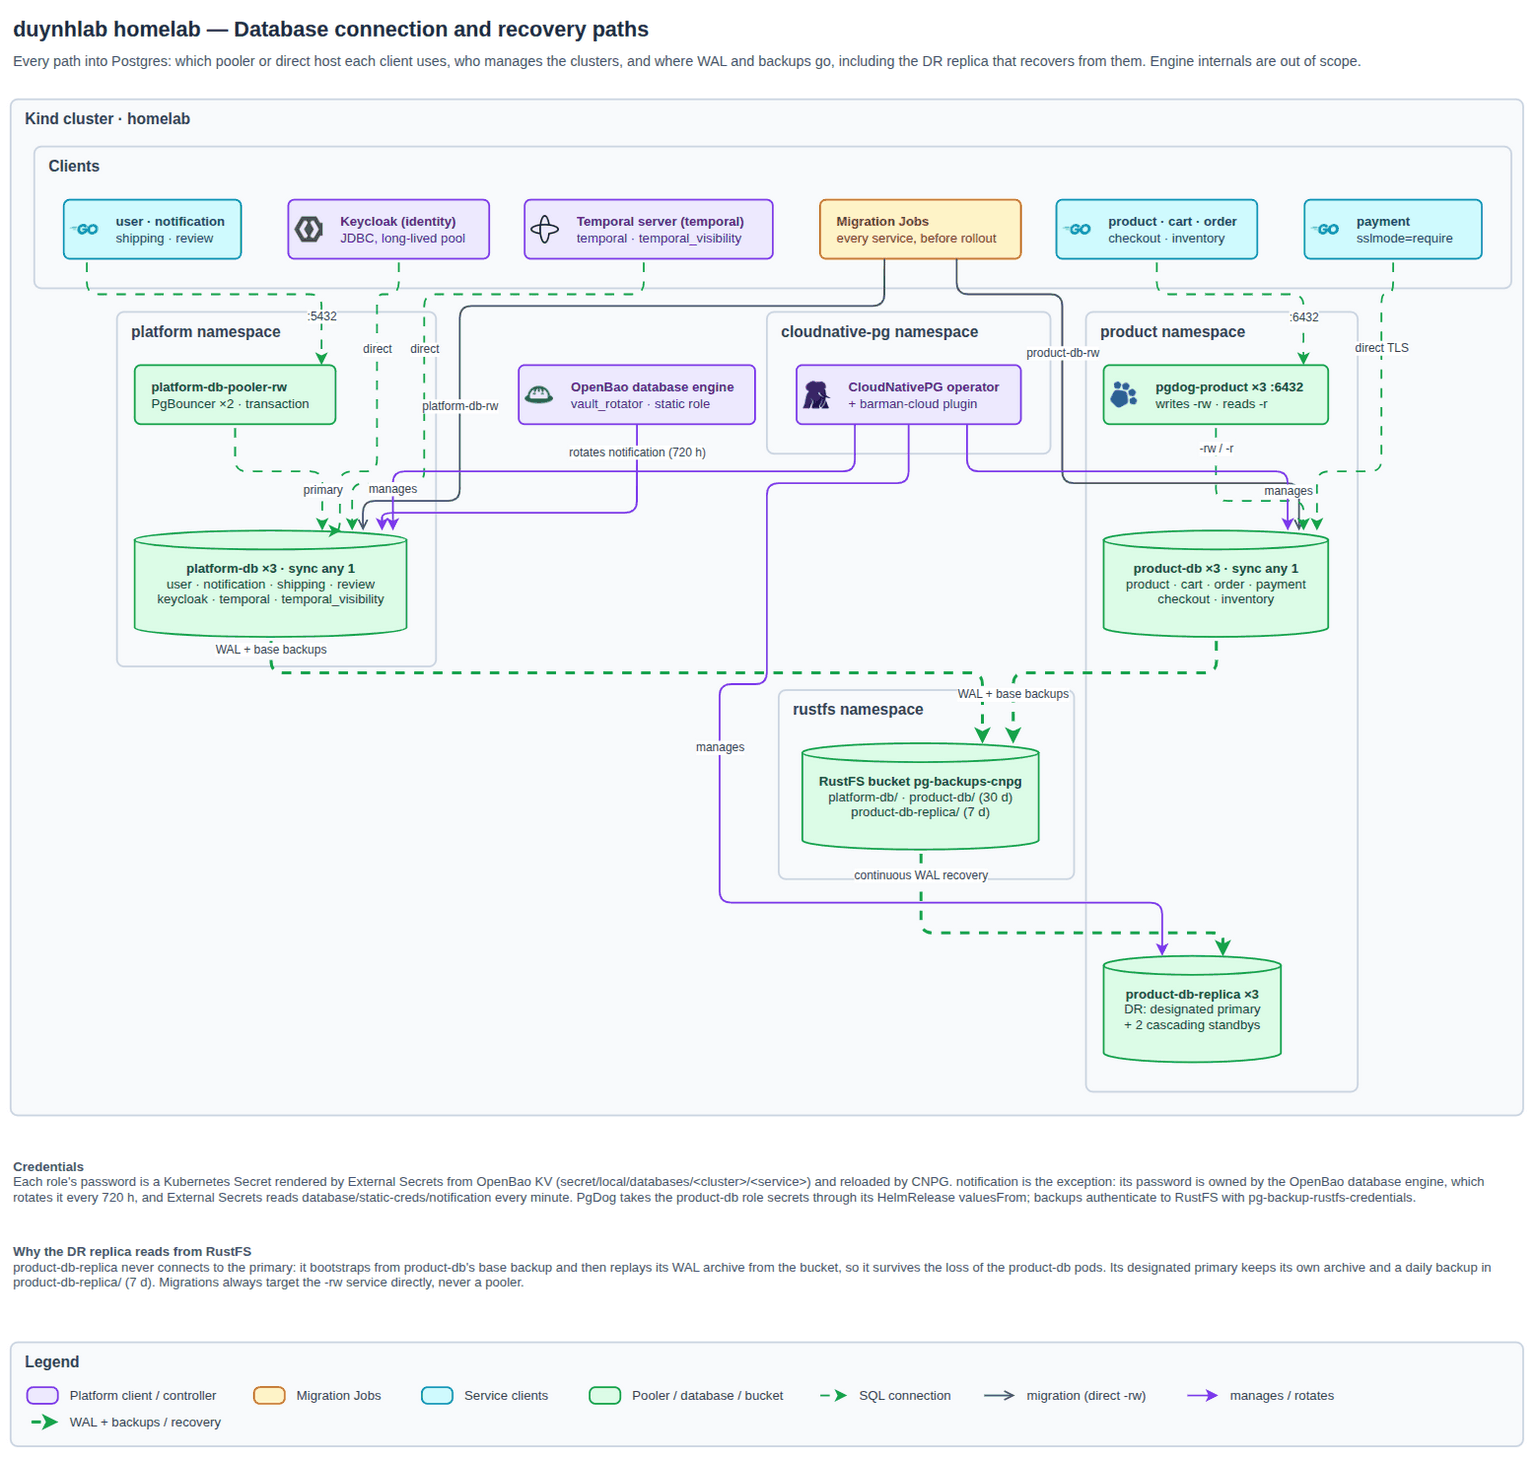
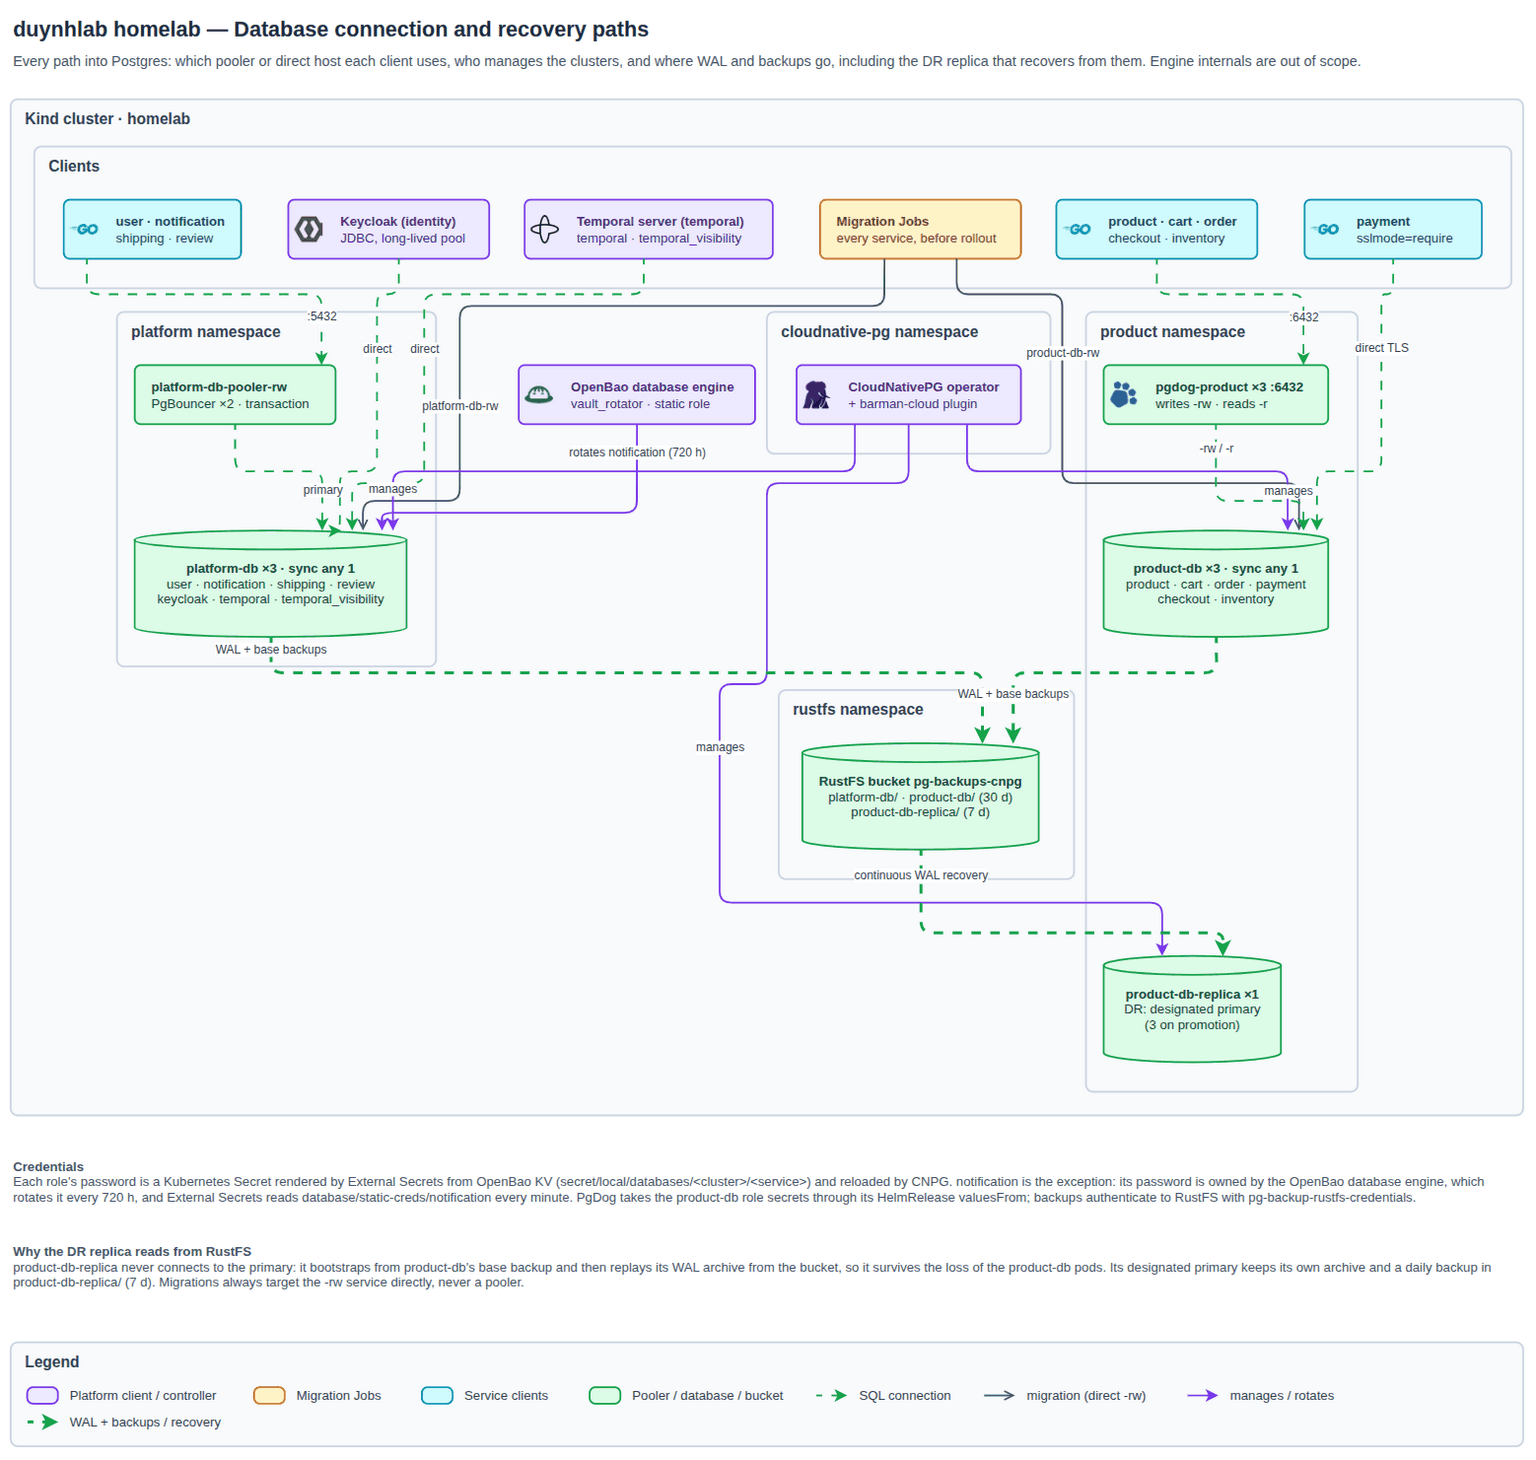
perf(databases): run the DR replica cluster on one instance
Each of product-db-replica's three standbys ran restore_command against
RustFS every few seconds, and every attempt forks the CNPG manager plus
a Python barman-cloud-wal-restore. On the Kind host the spare cost more
CPU than the serving cluster (single wal-restore bursts near 1100%).

One designated primary keeps the recovery layer and the promotion
target, and keeps CNPGDRClusterOffline quiet. Accepted trade-off: a
promoted cluster would be a single point of failure, so the promotion
step in the bootstrap runbook now raises instances back to 3. Docs,
runbooks and the databases/topology Draw.io view follow.

Verified on Kind: 1/1 ready, in recovery, replay lag within the 5m
archive_timeout, CNPG removed the two extra PVCs, 30/30 Kustomizations
Ready.

Changed region(s): [[0.75, 0.6781, 0.8125, 0.7089], [0.5938, 0.6164, 0.625, 0.6473]]

diff --git a/docs/databases/reliability-targets.md b/docs/databases/reliability-targets.md
@@ -40,7 +40,7 @@ the target table above is the DR backlog.
 | Cluster | RPO driver (as-built) | Effective RPO | RTO posture | Evidence |
 |---------|----------------------|---------------|-------------|----------|
 | `product-db` | 3 instances, sync quorum `ANY 1`; `archive_timeout 5m`; daily + every-6h base backups → `s3://pg-backups-cnpg/product-db/` (30-day retention) | **0** on quorum-ack commits (**measured 0**); **≤ 5 min** to DR replica | Planned switchover **measured 11.4 s** RTO; **PITR measured 2 m 12 s** to a validated throwaway; DR promotion still **not drill-recorded** | ✅ [DR-2026-08-B](../proposals/rfc/RFC-0021/gameday.md#0102-evidence-record) (switchover, 2026-08-06) · ✅ [DR-2026-08-A](./runbooks/restore-and-failover-drills.md#dr-2026-08-a--drill-a-product-db-pitr-the-barman-acceptance-gate) (PITR, 2026-08-07); ⏳ promotion pending durable hardware |
-| `product-db-replica` | Follows `product-db` via object-store recovery; 3 instances; own daily base backup into a 7-day recovery window | Tracks primary minus replay lag | Promote via `replica.enabled: false` | ⏳ promotion drill deferred to durable hardware ([RFC-0011](../proposals/rfc/RFC-0011/)) — on an ephemeral Kind cluster the rehearsal cannot honour the runbook's "never promote the live DR target" rule except by disposability |
+| `product-db-replica` | Follows `product-db` via object-store recovery; 1 instance (raised to 3 on promotion); own daily base backup into a 7-day recovery window | Tracks primary minus replay lag | Promote via `replica.enabled: false` | ⏳ promotion drill deferred to durable hardware ([RFC-0011](../proposals/rfc/RFC-0011/)) — on an ephemeral Kind cluster the rehearsal cannot honour the runbook's "never promote the live DR target" rule except by disposability |
 | `platform-db` | 3 instances, sync quorum `ANY 1`; Barman → `s3://pg-backups-cnpg/platform-db/` (30-day retention); includes `temporal` + `temporal_visibility` | **0** on quorum-ack commits | CNPG auto-failover; restore is manual | ⏳ restore drill deferred to durable hardware ([RFC-0011](../proposals/rfc/RFC-0011/)); the mechanism itself is proven by [DR-2026-08-A](./runbooks/restore-and-failover-drills.md#dr-2026-08-a--drill-a-product-db-pitr-the-barman-acceptance-gate) on the identical CNPG + Barman plugin path |
 
 ## How targets map to backup cadence
@@ -88,4 +88,4 @@ These widen the gap between target and as-built; tracked in
 - [runbooks/restore-and-failover-drills.md](./runbooks/restore-and-failover-drills.md) — how the targets get verified.
 
 ---
-_Last updated: 2026-09-01 — DR cluster taken to 3 instances with its own daily base backup._
+_Last updated: 2026-09-29 — DR cluster down to 1 instance, raised to 3 on promotion. Earlier: 2026-09-01 — DR cluster taken to 3 instances with its own daily base backup._

diff --git a/docs/databases/runbooks/cnpg-dr-replica-bootstrap.md b/docs/databases/runbooks/cnpg-dr-replica-bootstrap.md
@@ -61,8 +61,8 @@ Expected:
 
 - `product-db` has a recent completed backup.
 - `product-db` reports `ContinuousArchiving=True`.
-- `product-db-replica` reaches healthy state with three ready pods (designated
-  primary plus two cascading standbys).
+- `product-db-replica` reaches healthy state with one ready pod (the designated
+  primary; the cluster runs a single instance since 2026-09-29).
 
 ## Common Failure Points
 
@@ -146,9 +146,8 @@ Record the change/incident ID and obtain database-owner approval first.
    flux get kustomization databases-cnpg-dr-local -n flux-system
    ```
 
-   Confirm the designated primary is still in recovery, the two cascading
-   replicas are healthy, the replay timestamp advances, and the new daily backup
-   can write under the rotated identity.
+   Confirm the designated primary is still in recovery, the replay timestamp
+   advances, and the new daily backup can write under the rotated identity.
 
 The old generation becomes an intentional orphan. Inventory and remove it only
 through a separate object-store cleanup change after its recovery window and
@@ -168,6 +167,12 @@ Promotion semantics: the replica **cluster** transitions via
 into a replica requires destroying the cluster and re-bootstrapping (re-cloning)
 from the then-current primary.
 
+**Raise `instances` to 3 in the same promotion change.** The DR cluster runs a
+single instance to keep the spare cheap (2026-09-29), so a promoted cluster
+would otherwise be a single point of failure with no quorum. CNPG adds the two
+standbys by streaming from the new primary; they do not need the object store.
+
 ---
-_Last updated: 2026-09-14 — documented the owner-approved Barman `serverName`
+_Last updated: 2026-09-29 — the DR cluster runs one instance; promotion raises
+it back to 3. 2026-09-14 — documented the owner-approved Barman `serverName`
 rotation required before a DR re-clone and corrected the stale WAL-only claim._

diff --git a/docs/observability/runbooks/postgresql/CNPGDRClusterOffline.md b/docs/observability/runbooks/postgresql/CNPGDRClusterOffline.md
@@ -82,10 +82,10 @@ kubectl -n product get pods -l cnpg.io/cluster=product-db-replica
 flux get kustomization databases-cnpg-dr-local -n flux-system
 ```
 
-- The CNPG Cluster is healthy with 3/3 instances.
-- One designated primary remains in recovery from `product-db-primary`; two
-  cascading instances are healthy.
-- `cnpg_collector_up{cnpg_io_cluster="product-db-replica"}` has three series.
+- The CNPG Cluster is healthy with 1/1 instances (a single designated primary
+  since 2026-09-29).
+- The designated primary remains in recovery from `product-db-primary`.
+- `cnpg_collector_up{cnpg_io_cluster="product-db-replica"}` has one series.
 - `databases-cnpg-dr-local` is `Ready=True`.
 - The alert is inactive after the five-minute window clears.
 
@@ -104,5 +104,5 @@ restored; application health alone does not close it.
 
 ---
 
-_Last updated: 2026-09-14 — added explicit coverage for complete DR-cluster
+_Last updated: 2026-09-29 — expected state is 1/1 instance (DR cluster down from 3). Earlier: 2026-09-14 — added explicit coverage for complete DR-cluster
 absence and separated it from standby-streaming failures._

diff --git a/kubernetes/infra/configs/databases/README.md b/kubernetes/infra/configs/databases/README.md
@@ -25,7 +25,7 @@ PgBouncer pooler and one PgDog pooler
 | -------------------- | ------------- | ---------- | --------- | ------- | ----------------------------------------- | ------------------------------------ |
 | platform-db          | CloudNativePG | 18.1       | platform  | 3 nodes (1 primary + 1 sync + 1 async) | CNPG PgBouncer `Pooler` (`platform-db-pooler-rw`, ADR-026) | User, Notification, Shipping, Review, Keycloak, Temporal |
 | product-db              | CloudNativePG | 18.1       | product   | 3 nodes (1 primary + 1 sync + 1 async) | PgDog v0.39 (`pgdog-product`) | Product, Cart, Order, Checkout, Inventory, Payment (payment app: direct-TLS) |
-| product-db-replica      | CloudNativePG | 18.1       | product   | 3 nodes (designated primary + 2 cascading) | —                                         | DR (continuous WAL recovery)         |
+| product-db-replica      | CloudNativePG | 18.1       | product   | 1 node (designated primary; 3 on promotion) | —                                         | DR (continuous WAL recovery)         |
 
 
 ## Connection Endpoints

diff --git a/docs/databases/architecture.md b/docs/databases/architecture.md
@@ -33,7 +33,7 @@ flowchart TB
     PgDog["PgDog<br/>pgdog-product :6432"]
     Platform[("platform-db<br/>3 instances")]
     Product[("product-db<br/>3 instances")]
-    DR[("product-db-replica<br/>3 instances")]
+    DR[("product-db-replica<br/>1 instance")]
     Store[("RustFS object storage")]
 
     CNPG --> Platform
@@ -136,4 +136,4 @@ services, not by the infrastructure manifests.
 - [CloudNativePG 1.30 service management](https://cloudnative-pg.io/docs/1.30/service_management/)
 - [CloudNativePG 1.30 replica clusters](https://cloudnative-pg.io/docs/1.30/replica_cluster/)
 
-_Last updated: 2026-09-28 — Draw.io view of every connection and recovery path. 2026-09-01 — DR cluster `product-db-replica` taken to 3 instances (designated primary + 2 cascading standbys)._
+_Last updated: 2026-09-29 — DR cluster `product-db-replica` down to 1 instance (3 on promotion). Earlier: 2026-09-28 — Draw.io view of every connection and recovery path. 2026-09-01 — DR cluster `product-db-replica` taken to 3 instances (designated primary + 2 cascading standbys)._

diff --git a/kubernetes/infra/configs/databases/clusters/README.md b/kubernetes/infra/configs/databases/clusters/README.md
@@ -6,7 +6,7 @@
 |---------|----------|-----------|-----------|-------------|--------|-----------------|-----------------|
 | **platform-db** | CloudNativePG | platform | 3 (1 Primary + 1 Sync + 1 Async Replica) | Sync (ANY 1) | PgBouncer (`platform-db-pooler-rw`, ADR-026) | `platform-db-pooler-rw.platform.svc:5432` | `platform-db-rw.platform.svc:5432` |
 | **product-db** | CloudNativePG | product | 3 (1 Primary + 1 Sync + 1 Async Replica) | Sync (ANY 1) | PgDog (`pgdog-product`) | `pgdog-product.product.svc:6432` | `product-db-rw.product.svc:5432` |
-| **product-db-replica** | CloudNativePG | product | 3 (Designated Primary + 2 cascading) | WAL recovery from object store | — | — | `product-db-replica-rw.product.svc:5432` |
+| **product-db-replica** | CloudNativePG | product | 1 (Designated Primary; 3 on promotion) | WAL recovery from object store | — | — | `product-db-replica-rw.product.svc:5432` |
 
 ---
 

diff --git a/CHANGELOG.md b/CHANGELOG.md
@@ -5949,6 +5949,20 @@ Skeleton (copy what you need):
   running.
 
 
+### Performance
+
+#### Databases
+
+- **The DR cluster `product-db-replica` runs one instance, not three.** Each
+  standby ran `restore_command` against RustFS every few seconds, and every
+  attempt forks the CNPG manager plus a Python `barman-cloud-wal-restore`, so
+  on the Kind host the spare cost more CPU than the serving cluster (bursts of
+  ~1100% on a single `wal-restore`). One designated primary keeps the recovery
+  layer, the promotion target and `CNPGDRClusterOffline` quiet. Accepted
+  trade-off: a promoted cluster would be a single point of failure, so the
+  bootstrap runbook's promotion step now raises `instances` back to 3. Docs,
+  runbooks and the `databases/topology` Draw.io view updated.
+
 ## [0.110.0] - 2026-08-07
 
 <!-- markdown-link-check-disable -->

diff --git a/docs/databases/cross-region-dr.md b/docs/databases/cross-region-dr.md
@@ -17,7 +17,7 @@ flowchart TB
   subgraph host ["Single host / single Kind cluster"]
     subgraph productNs ["Namespace product"]
       primary["product-db (3 instances)"]
-      dr["product-db-replica (3 instances)"]
+      dr["product-db-replica (1 instance)"]
     end
     subgraph rustfsNs ["Namespace rustfs"]
       rustfs["RustFS S3"]
@@ -116,4 +116,4 @@ write. RPO in region B is therefore bounded by object-replication lag on top of
 - [runbooks/restore-and-failover-drills.md](./runbooks/restore-and-failover-drills.md) — the promotion drill that validates this.
 
 ---
-_Last updated: 2026-09-01 — DR cluster taken to 3 instances._
+_Last updated: 2026-09-29 — DR cluster down to 1 instance (3 on promotion). Earlier: 2026-09-01 — DR cluster taken to 3 instances._
